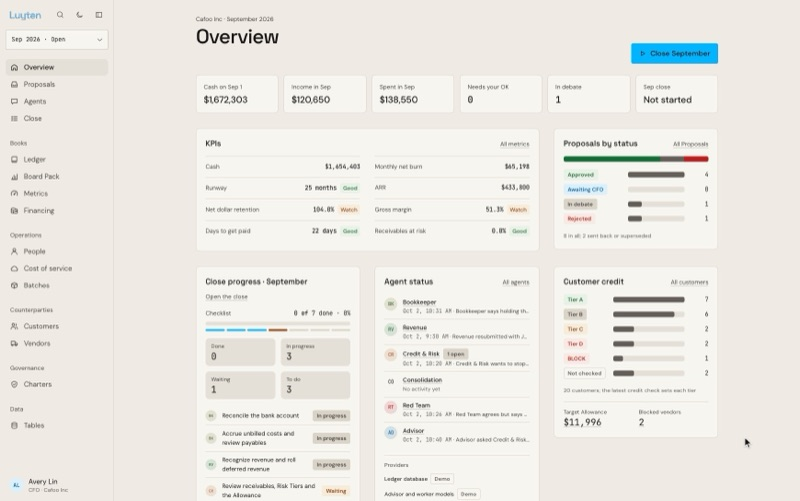
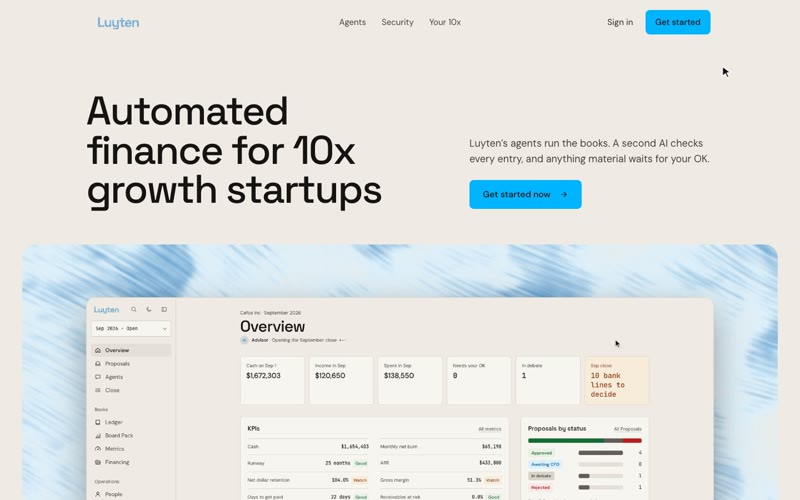
Update Luyten project aspect ratio and replace media assets with new versions.

diff --git a/lib/projects.ts b/lib/projects.ts
@@ -36,7 +36,7 @@ export const PROJECTS: Project[] = [
     tags: ["AI agents", "Fintech", "Full stack", "Hackathon"],
     stack: "SvelteKit / SpacetimeDB / Claude Agent SDK",
     media: "/media/luyten.gif",
-    aspect: "1740 / 1090",
+    aspect: "16 / 10",
   },
   {
     slug: "chef-nourish",
